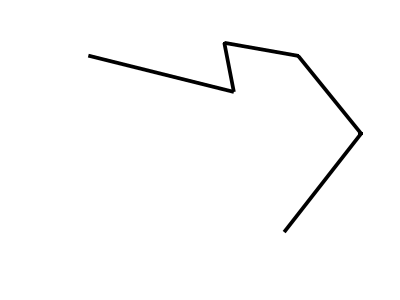
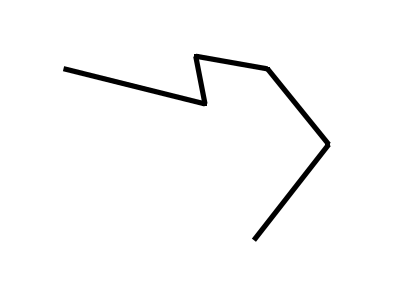
change figures and images dimensions

Changed region(s): [[0.1527, 0.122, 0.916, 0.8237], [0.7634, 0.2136, 0.855, 0.3661]]

diff --git a/color_trace.html b/color_trace.html
@@ -11,7 +11,7 @@
 <script src="color_trace.js" type="text/javascript"></script>
 <script>
 	//define trialnumber
-	trialnumber = 38;
+	trialnumber = 22;
     //trial
 	var MID = "B1112";
 	do_mirror();

diff --git a/color_trace.js b/color_trace.js
@@ -141,8 +141,8 @@ var materials = {
 
 
 	//image dimensions
-	var mywidth = 400;
-	var myheight = 300;
+	var mywidth = 393;
+	var myheight = 295;
 
 	var score = 0;
 	var timeDiff = 0;

diff --git a/training.js b/training.js
@@ -80,8 +80,8 @@ var materials = {
 
 
 	//image dimensions
-	var mywidth = 400;
-	var myheight = 300;
+	var mywidth = 393;
+	var myheight = 295;
 
 	var score = 0;
 	var timeDiff = 0;
